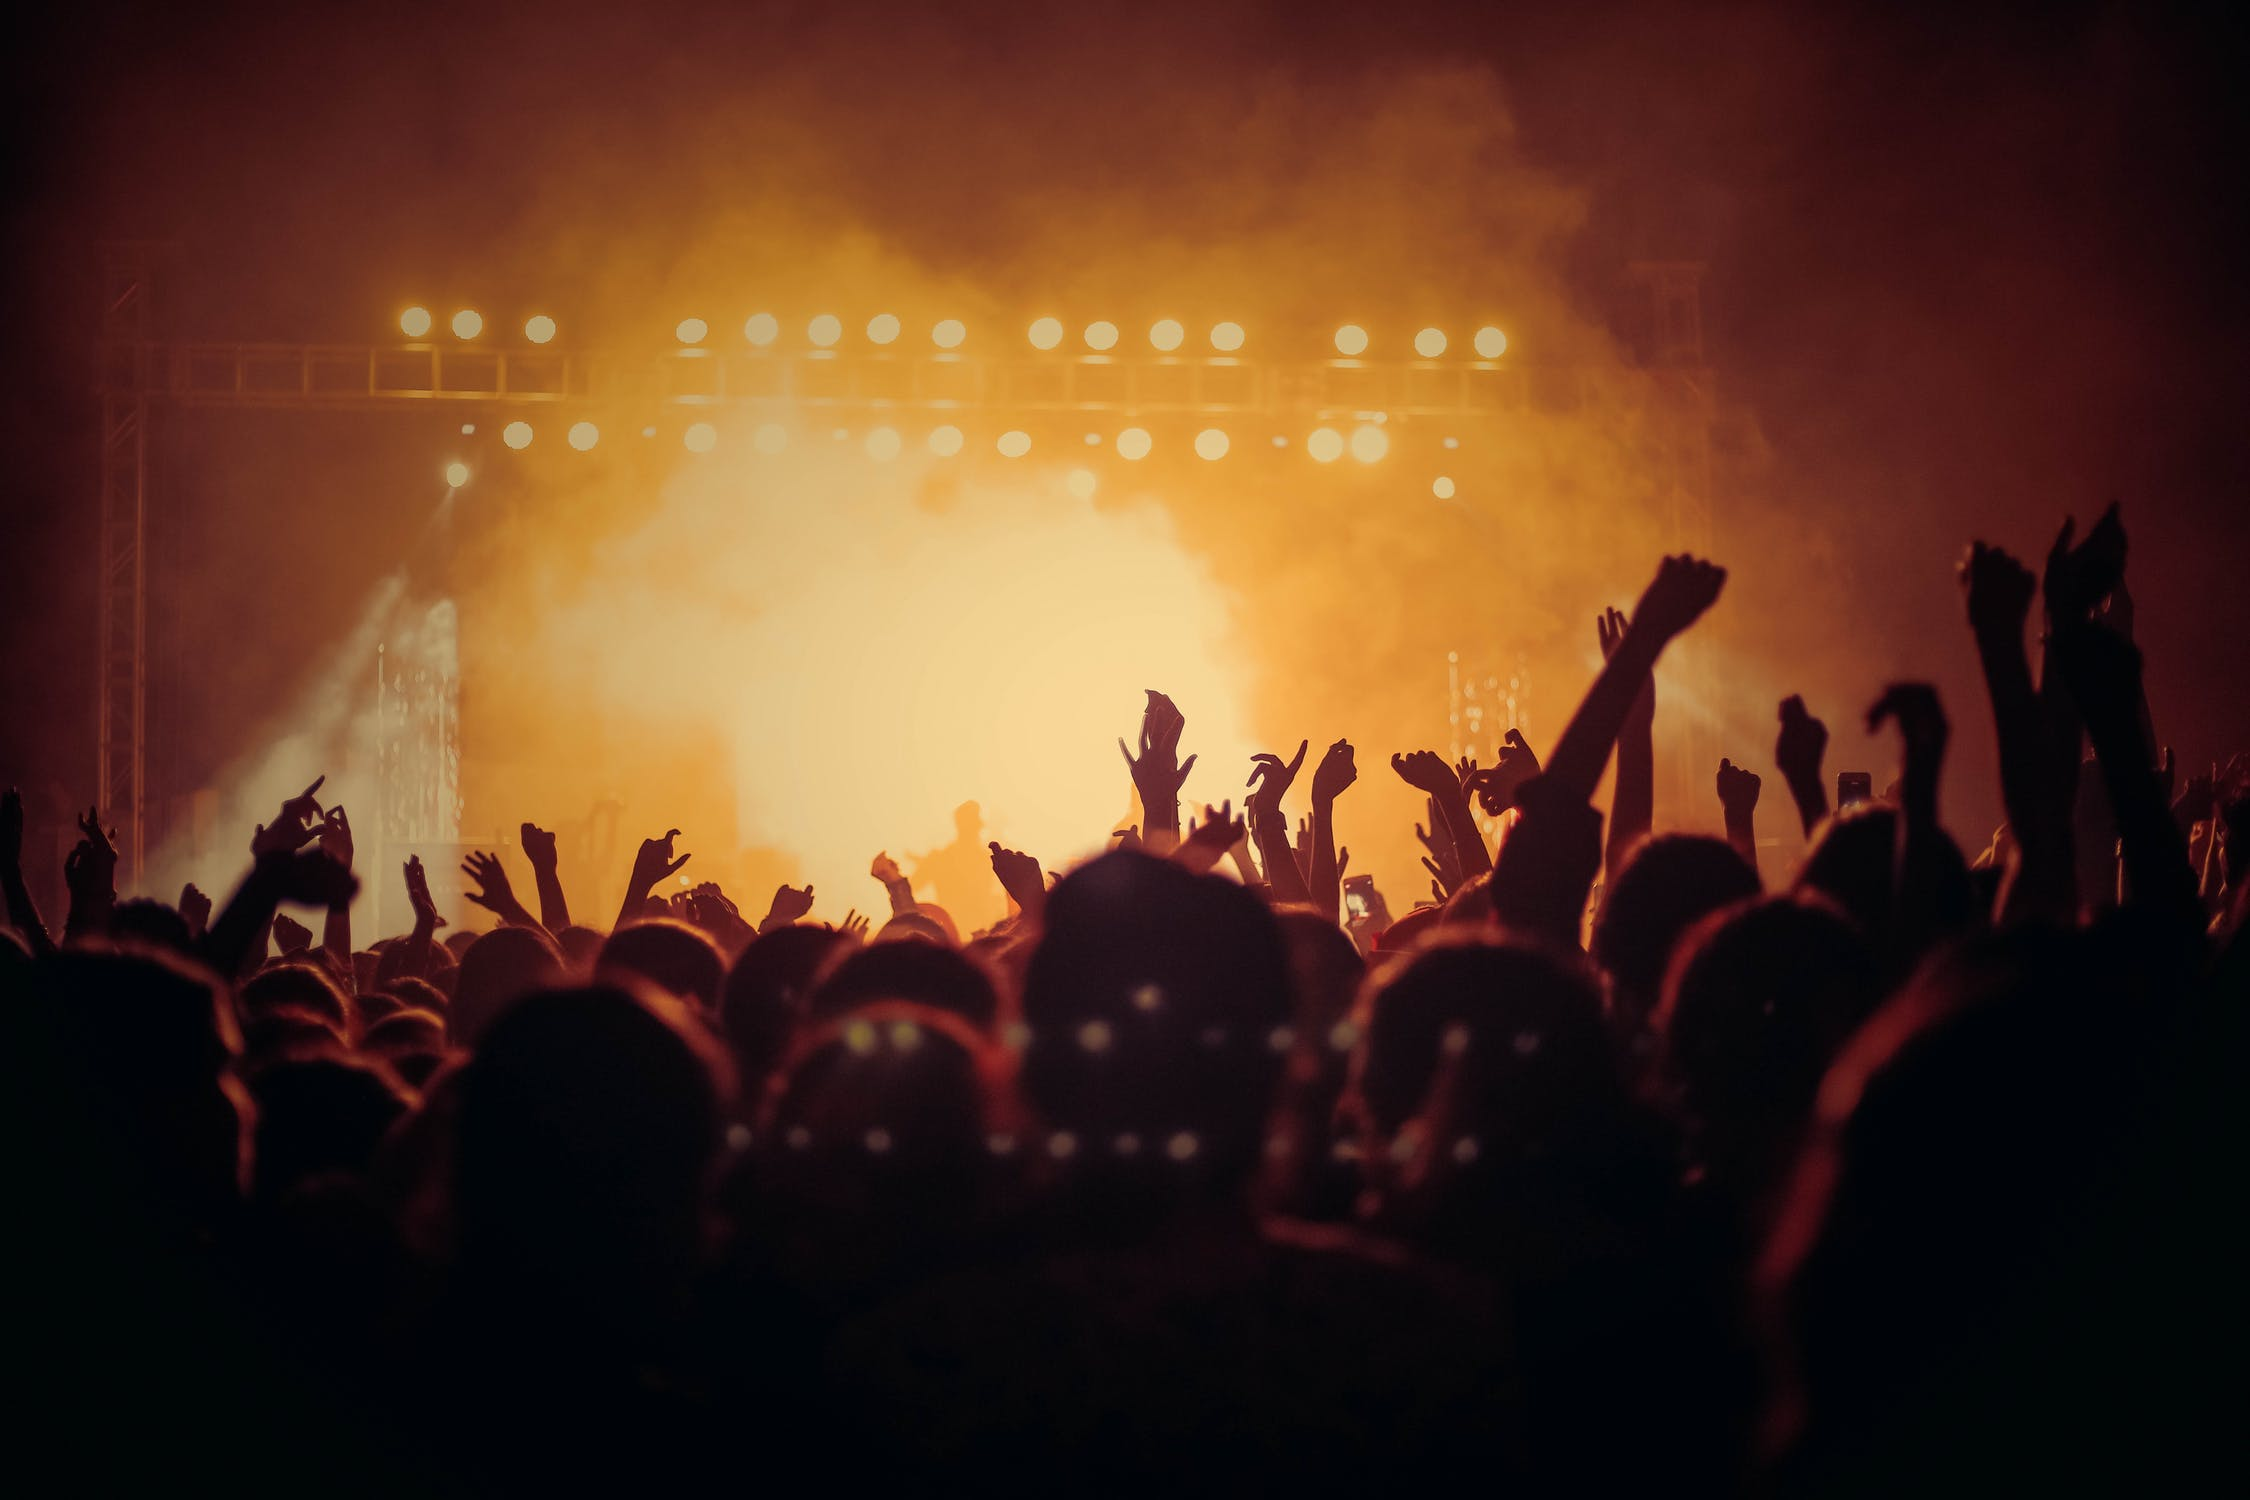
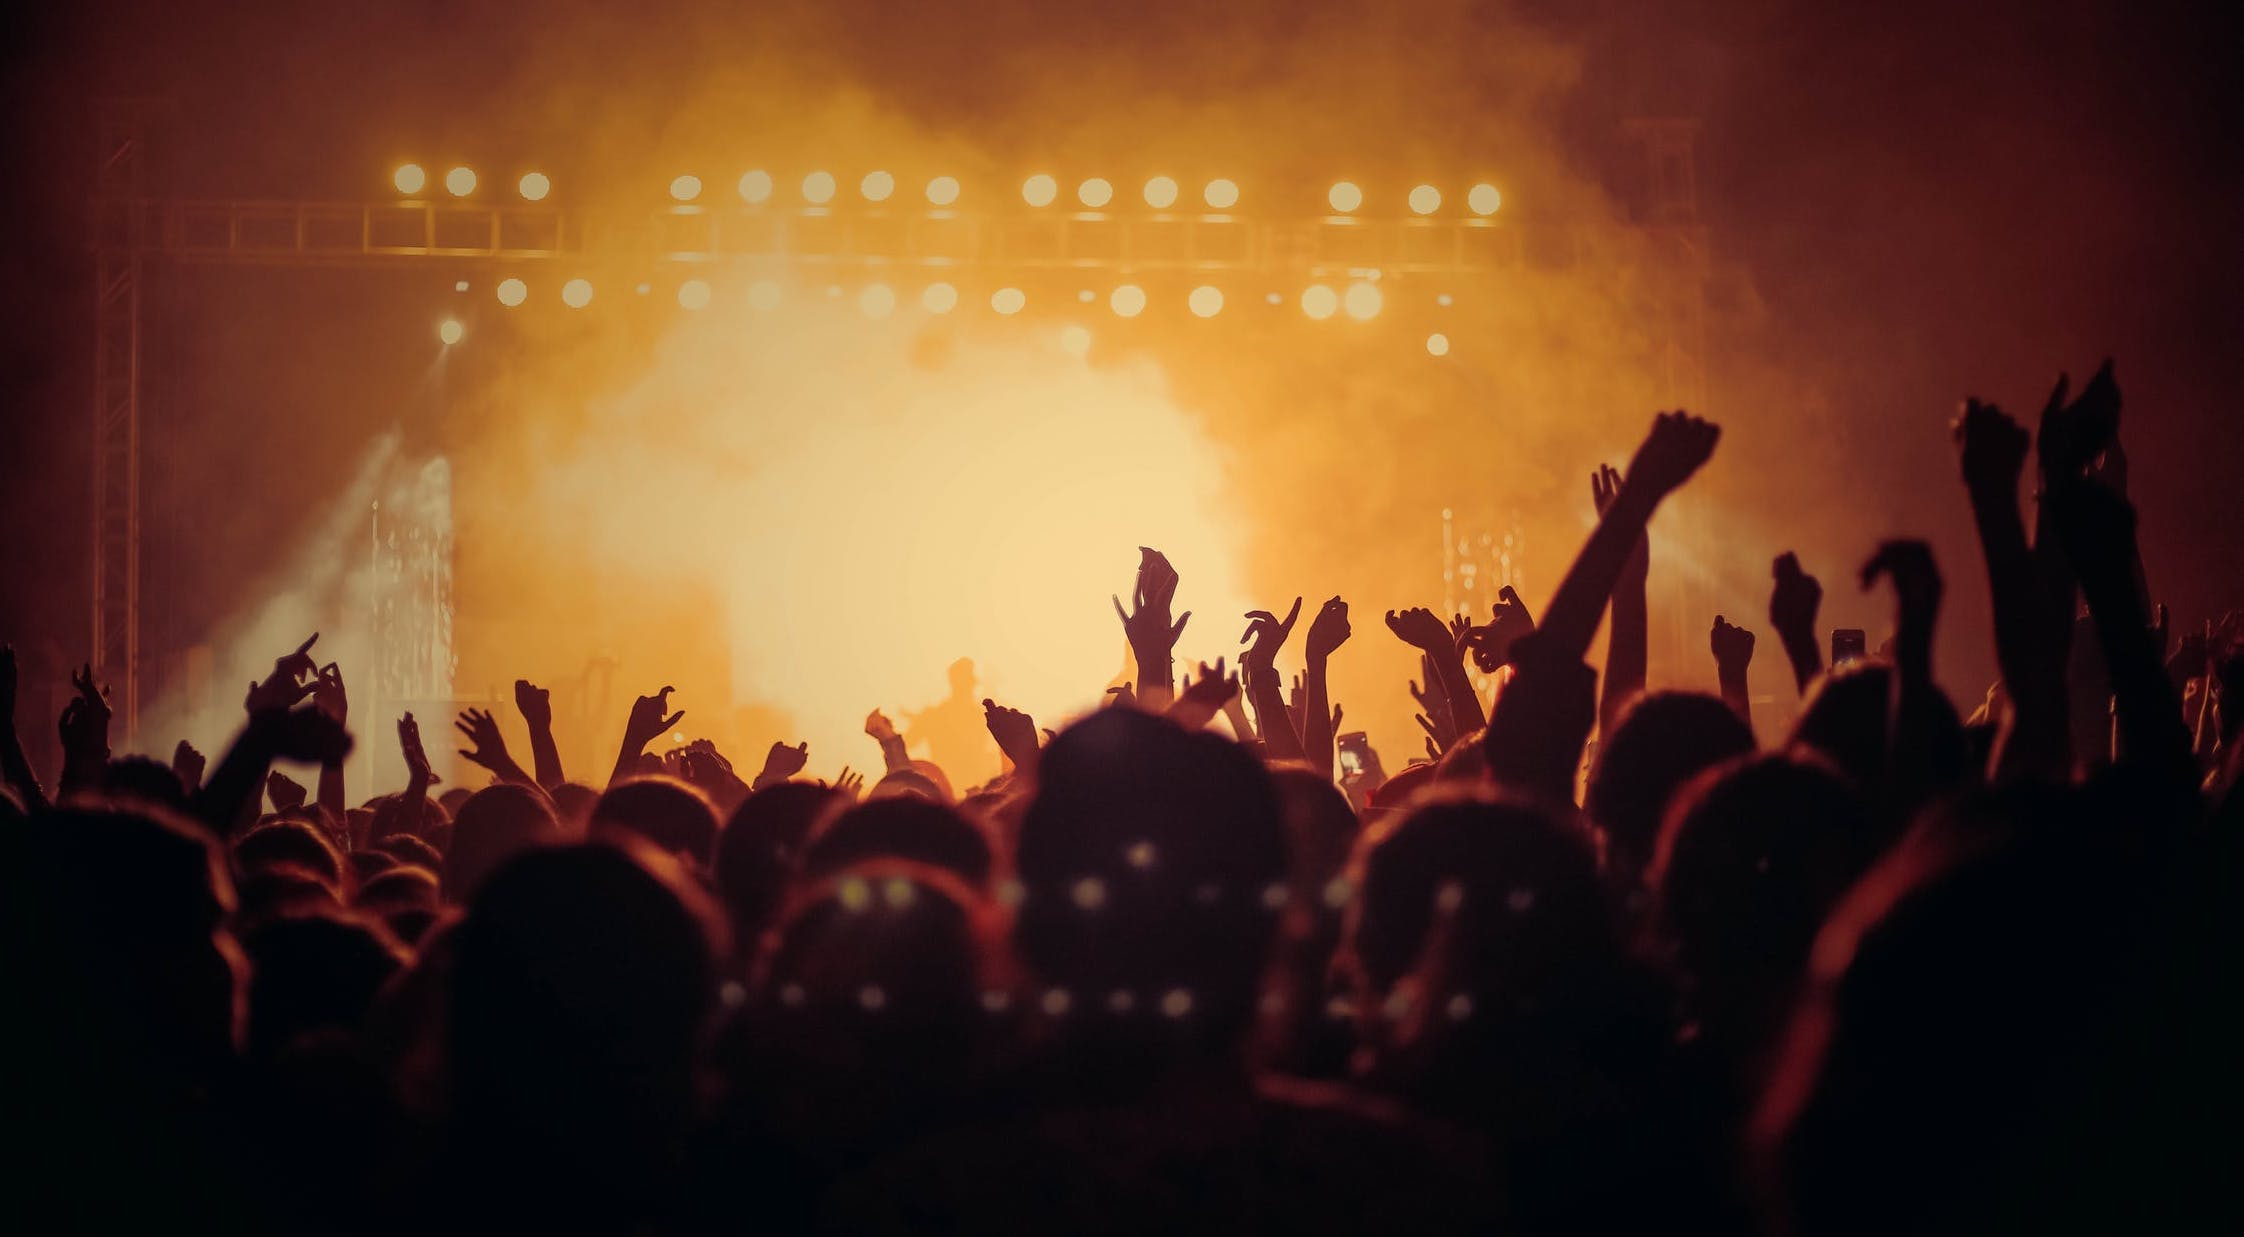
css improvements. 90% there. Looks pretty nice if I do say so myself.

diff --git a/public/home.html b/public/home.html
@@ -1,0 +1,26 @@
+<!DOCTYPE html>
+<html lang="en">
+<head>
+    <meta charset="UTF-8">
+    <meta name="viewport" content="width=device-width, initial-scale=1.0">
+    <meta http-equiv="X-UA-Compatible" content="ie=edge">
+    
+    <link href="https://fonts.googleapis.com/css?family=Open+Sans:700&display=swap" rel="stylesheet">
+    <link rel="stylesheet" href="https://stackpath.bootstrapcdn.com/bootstrap/4.4.1/css/bootstrap.min.css" integrity="sha384-Vkoo8x4CGsO3+Hhxv8T/Q5PaXtkKtu6ug5TOeNV6gBiFeWPGFN9MuhOf23Q9Ifjh" crossorigin="anonymous">   
+    <link rel="stylesheet" type="text/css" href="styles/home-style.css"> 
+    <title>Post Pass</title>
+</head>
+<body>
+
+    
+        <div class="jumbotron jumbotron-first">
+                <h1 class="display-4">TICKET PASS</h1>
+                <p class="lead">BUY IT. SELL IT. LIVE IT</p>
+            
+                <a href="/venue"><button id="btn-buyticket" class="btn btn-buy btn-primary btn-lg center-block">Buy Ticket</button></a>
+                <a href="form.html"><button id="btn-sellticket" class="btn btn-primary btn-lg">Sell Ticket</button></a>
+                <a href="/user-email"><button id="btn-sellticket" class="btn btn-primary btn-lg">My Listings</button></a>
+         
+        </div>
+
+</body>

diff --git a/public/seller-confirmation.html b/public/seller-confirmation.html
@@ -32,12 +32,12 @@
               
     
         <div class="jumbotron">
-                <h1 class="display-4">YOU DID IT!</h1>
-                <p class="lead">Your tickets have been posted</p>
+                <h1 class="display-2">YOU DID IT!</h1>
+                <p class="lead">Your tickets have been posted.</p>
                 <hr class="my-4">
-                <p>A confirmation email has been sent to you. To monitor your listings go to 'My Listings' </p>
-                <a href="/" class="btn btn-lg bg-dark text-white" button id="home-button">Home</button></a>
-                <a href="/user-email" class="btn btn-lg bg-dark text-white" button id="my-listing">My Listings</a>
+                <p>A confirmation email has been sent to you. To monitor your listings go to <b>My Listings</b> </p>
+                <a href="form.html"> <button id="sell-another-ticket" class="btn btn-primary btn-lg">Sell Another Ticket</button></a>
+                <a href="/user-email"> <button id="my-listing" class="btn btn-primary btn-lg">My Listings</button></a>
               </div>
             
 </body>

diff --git a/public/styles/home-style.css b/public/styles/home-style.css
@@ -1,0 +1,59 @@
+
+.jumbotron-first{
+    background-image:url(./concert.jpeg);
+    background-size:cover;
+    height:980px;
+    margin:0px;
+    text-align: center;
+   }
+
+
+.display-4{
+    
+    color: black;
+    font-weight: 300;
+    font-size: 200px;
+    font-family: 'Open Sans', sans-serif;
+    font-family: 'Bebas Neue', cursive;
+    text-align: center;
+    margin-top: 17%;
+    letter-spacing: .4rem;
+    line-height: 90%
+}
+
+.lead{
+    color:snow;
+    font-size: 50px;
+    font-family: 'Open Sans', sans-serif, bold;
+    text-align: center;
+    text-shadow: 2px 2px black;
+    margin-bottom: 0%;
+}
+
+h4{
+    
+    margin-top: 10%;
+    text-align: center;
+    color:snow;
+    font-size: 30px;
+    font-family: 'Open Sans', sans-serif, bold;
+}
+
+.btn-lg{
+    
+    border:black solid .1rem;
+    color:white;
+    border-radius: 10px;
+    background-color:black;
+    color:white;
+    padding: 13px;
+    margin: 10px;
+}
+
+.btn:hover{
+    background-color: white;
+    border: white solid .2rem;
+    color:black;
+    
+}
+

diff --git a/public/buyer-confirmation.html b/public/buyer-confirmation.html
@@ -32,12 +32,11 @@
               
     
         <div class="jumbotron">
-                <h1 class="display-4">YOU DID IT!</h1>
+                <h1 class="display-2">YOU DID IT!</h1>
                 <p class="lead">Your tickets have been purchased and a confirmation email has been sent to you.</p>
                 <hr class="my-4">
-                <a href="/" class="btn btn-lg bg-dark text-white" button id="button">Home</button></a>
-                <!--  did not havea access to james' venue files yet. Double check that this route is listed and the naming is correct -->
-                <a href="/venue" button id="my-listing" class="btn btn-lg bg-dark text-white">Buy more tickets</a>
+                <a href="home.html"> <button id="home-btn" class="btn btn-primary btn-lg">Home</button></a>
+                <a href="/venue"><button id="my-listing" class="btn btn-primary btn-lg">Buy Another Ticket</button></a>
               </div>
             
 </body>

diff --git a/public/styles/styles.css b/public/styles/styles.css
@@ -1,8 +1,11 @@
 .list-group-item {
   line-height: 2.5;
+
 }
+
 h1,h2 {
   font-family: 'Bebas Neue', cursive;
+  font-family: 'Open Sans', sans-serif;
 }
 
 .post-pass {
@@ -32,17 +35,41 @@ h1,h2 {
 
 #form-info {
   opacity: 0;
+
 }
-.btn-sellticket {
-  margin: 70px;
+
+.display-2 {
+  font-family: 'Bebas Neue', cursive; 
+  color:black;
+  line-height: 90%;
+}
+
+.btn-lg{
+  border:black solid .1rem;
+    color:white;
+    border-radius: 10px;
+    background-color:black;
+    color:white;
+    padding: 13px;
+    margin: 10px;
+}
+
+.btn-lg:hover{
+    background-color: white;
+    border:black solid .2rem;
+    color:black;
+}
+
+.display-3{
+  font-family: 'Bebas Neue', cursive; 
 }
 
 body {
   background-image: url('concert.jpeg');
-  background-size: 80%;
   position: sticky;
   background-repeat: no-repeat;
   background-size: cover;
+  height: 100vh;
 }
 
 .main-container {

diff --git a/public/form.html b/public/form.html
@@ -36,8 +36,8 @@
                       <div class="card mb-4 p-4">
                         <div class="card-body">
                             <div class="card">
-                              <div class="card-body" style="text-align: center">
-                                Ticket Info
+                              <div class="card-body display-3" style="text-align: center">
+                                List Your Ticket
                               </div>
                             </div>
                             <form>

diff --git a/routes/htmlRoutes.js b/routes/htmlRoutes.js
@@ -29,7 +29,7 @@ module.exports = function(app) {
    app.get("/", function(req, res) {
   //   db.Example.findAll({}).then(function(dbExamples) {
        res.render("index", {
-         msg: "POST PASS"
+         msg: "WELCOME TOPOST PASS"
   //       examples: dbExamples
        });
    });
